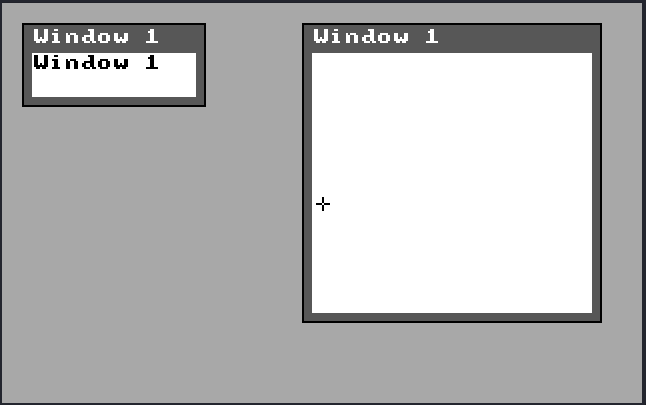
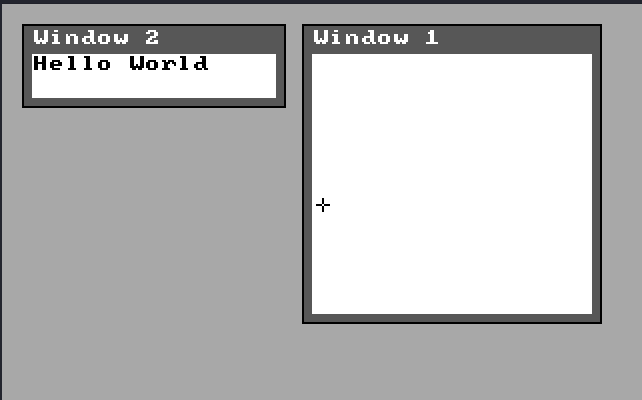
Fix Text

Changed region(s): [[0.0312, 0.03, 0.9346, 0.81], [0.0, 0.0, 1.0, 1.0]]

diff --git a/kernel/include/gui/widgets/text.h b/kernel/include/gui/widgets/text.h
@@ -17,11 +17,14 @@ namespace maxOS {
         namespace widgets{
             class Text : public Widget{
 
+            protected:
+                char widgetText[256];
+
             public:
 
                 //TODO: Redo so that it uses some generified font class
                 AmigaFont font;
-                char* widgetText;
+
 
                 Text(common::int32_t left, common::int32_t top, common::uint32_t width, common::uint32_t height, common::string text);
                 ~Text();

diff --git a/kernel/src/kernel.cpp b/kernel/src/kernel.cpp
@@ -625,7 +625,7 @@ extern "C" void kernelMain(const void* multiboot_structure, uint32_t multiboot_m
     usKeyboard.connectKeyboardEventHandler(&desktop);
     kernelClock.connectClockEventHandler(&desktop);
 
-    widgets::Text testLabel(0, 0, 80, 20, "Hello World");
+    widgets::Text testLabel(0, 0, 120, 20, "Hello World");
 
     Window testWindow2(&testLabel, "Window 2");
     testWindow2.move(10,10);
